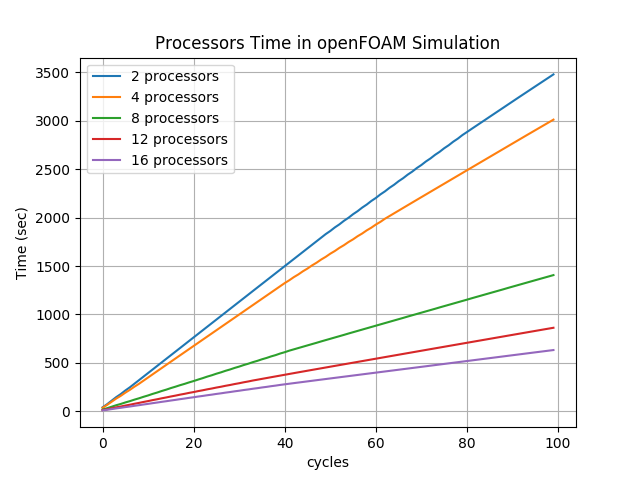
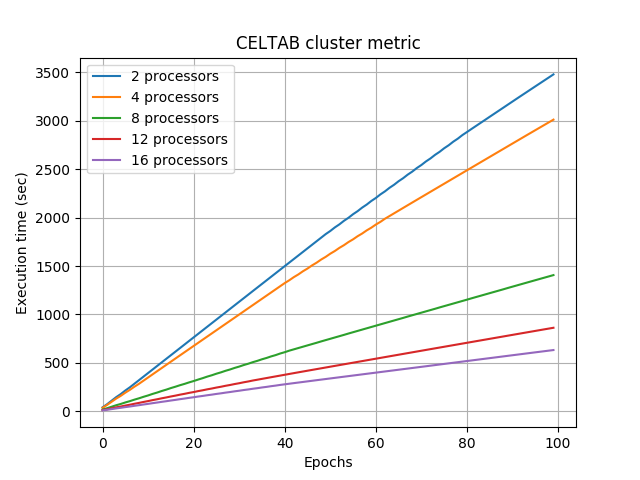
Ploting graph

Changed region(s): [[0.2188, 0.0625, 0.7812, 0.125], [0.0, 0.375, 0.0625, 0.6562], [0.4688, 0.9375, 0.5625, 1.0]]

diff --git a/samples/foam/cavityParallel/plot.py b/samples/foam/cavityParallel/plot.py
@@ -24,10 +24,10 @@ class BenchMarkSpeedUp:
 		plt.plot(self.df3['time'], label="8 processors")
 		plt.plot(self.df4['time'], label="12 processors")
 		plt.plot(self.df5['time'], label="16 processors")
-		plt.title('Processors Time in openFOAM Simulation')
+		plt.title('CELTAB cluster metric')
 		plt.legend(loc='upper left')
-		plt.xlabel("cycles")
-		plt.ylabel("Time (sec)")
+		plt.xlabel("Epochs")
+		plt.ylabel("Execution time (sec)")
    		plt.grid(True)
         	plt.savefig('plot2.png')
 
